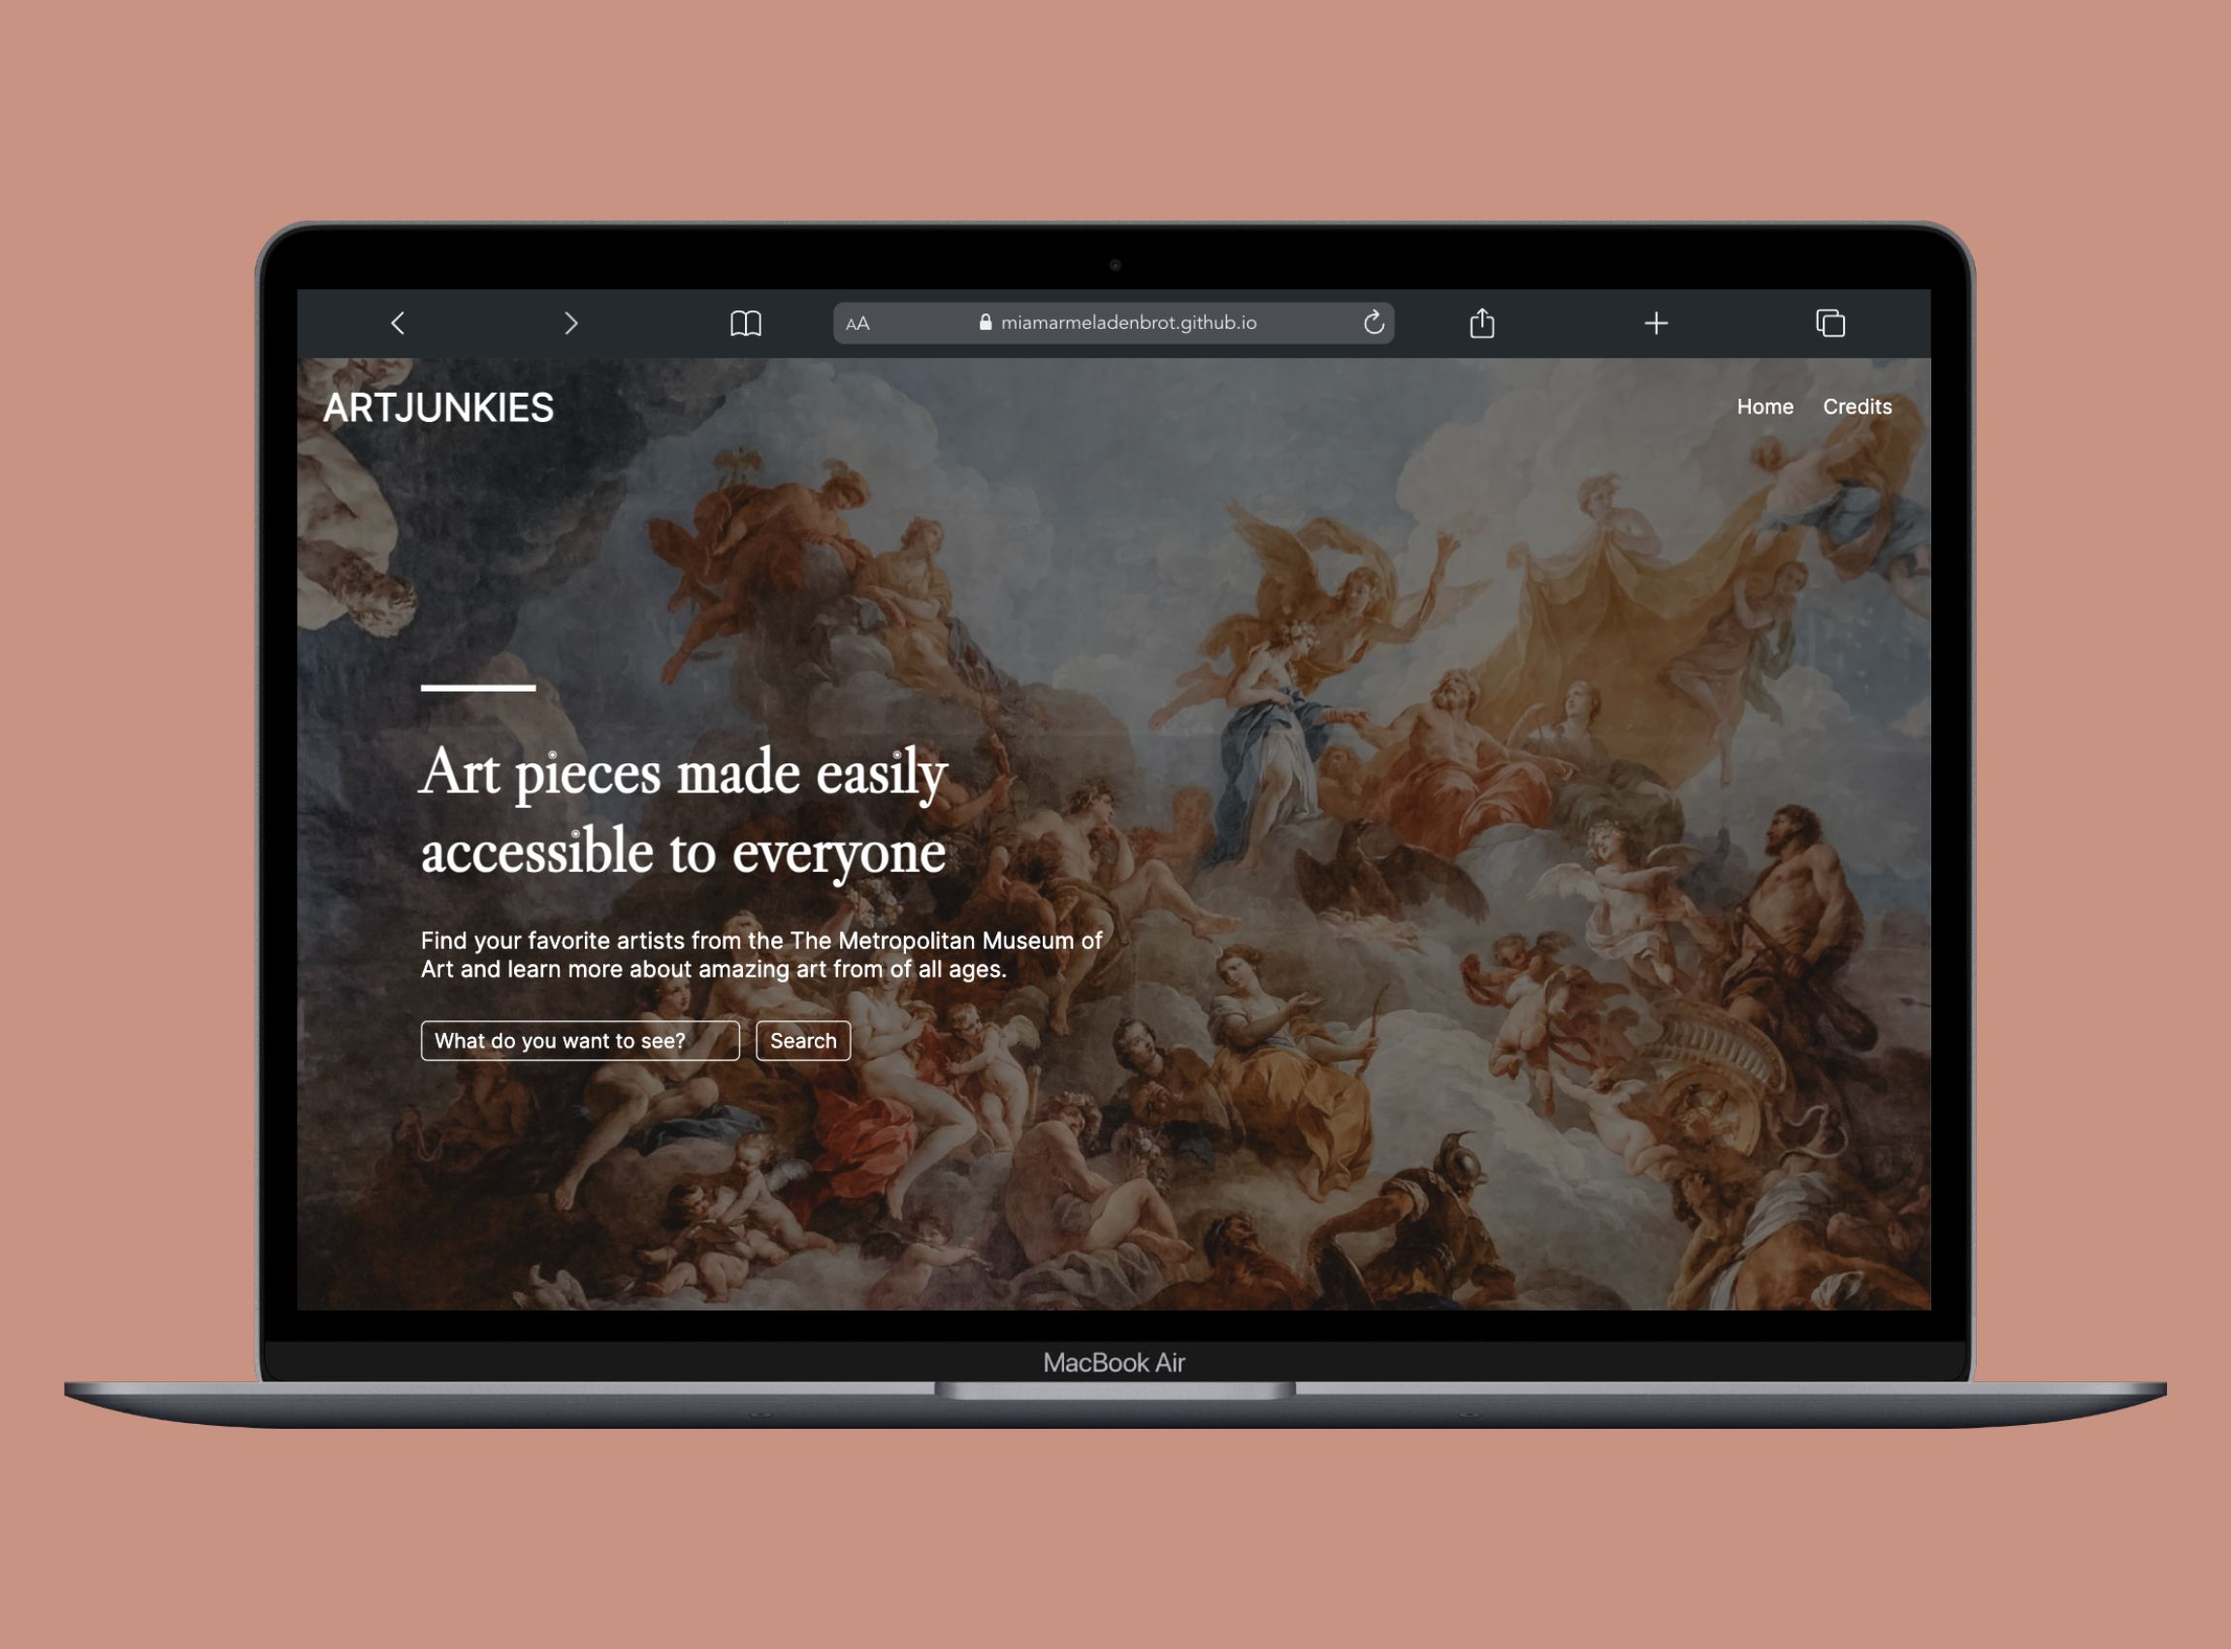
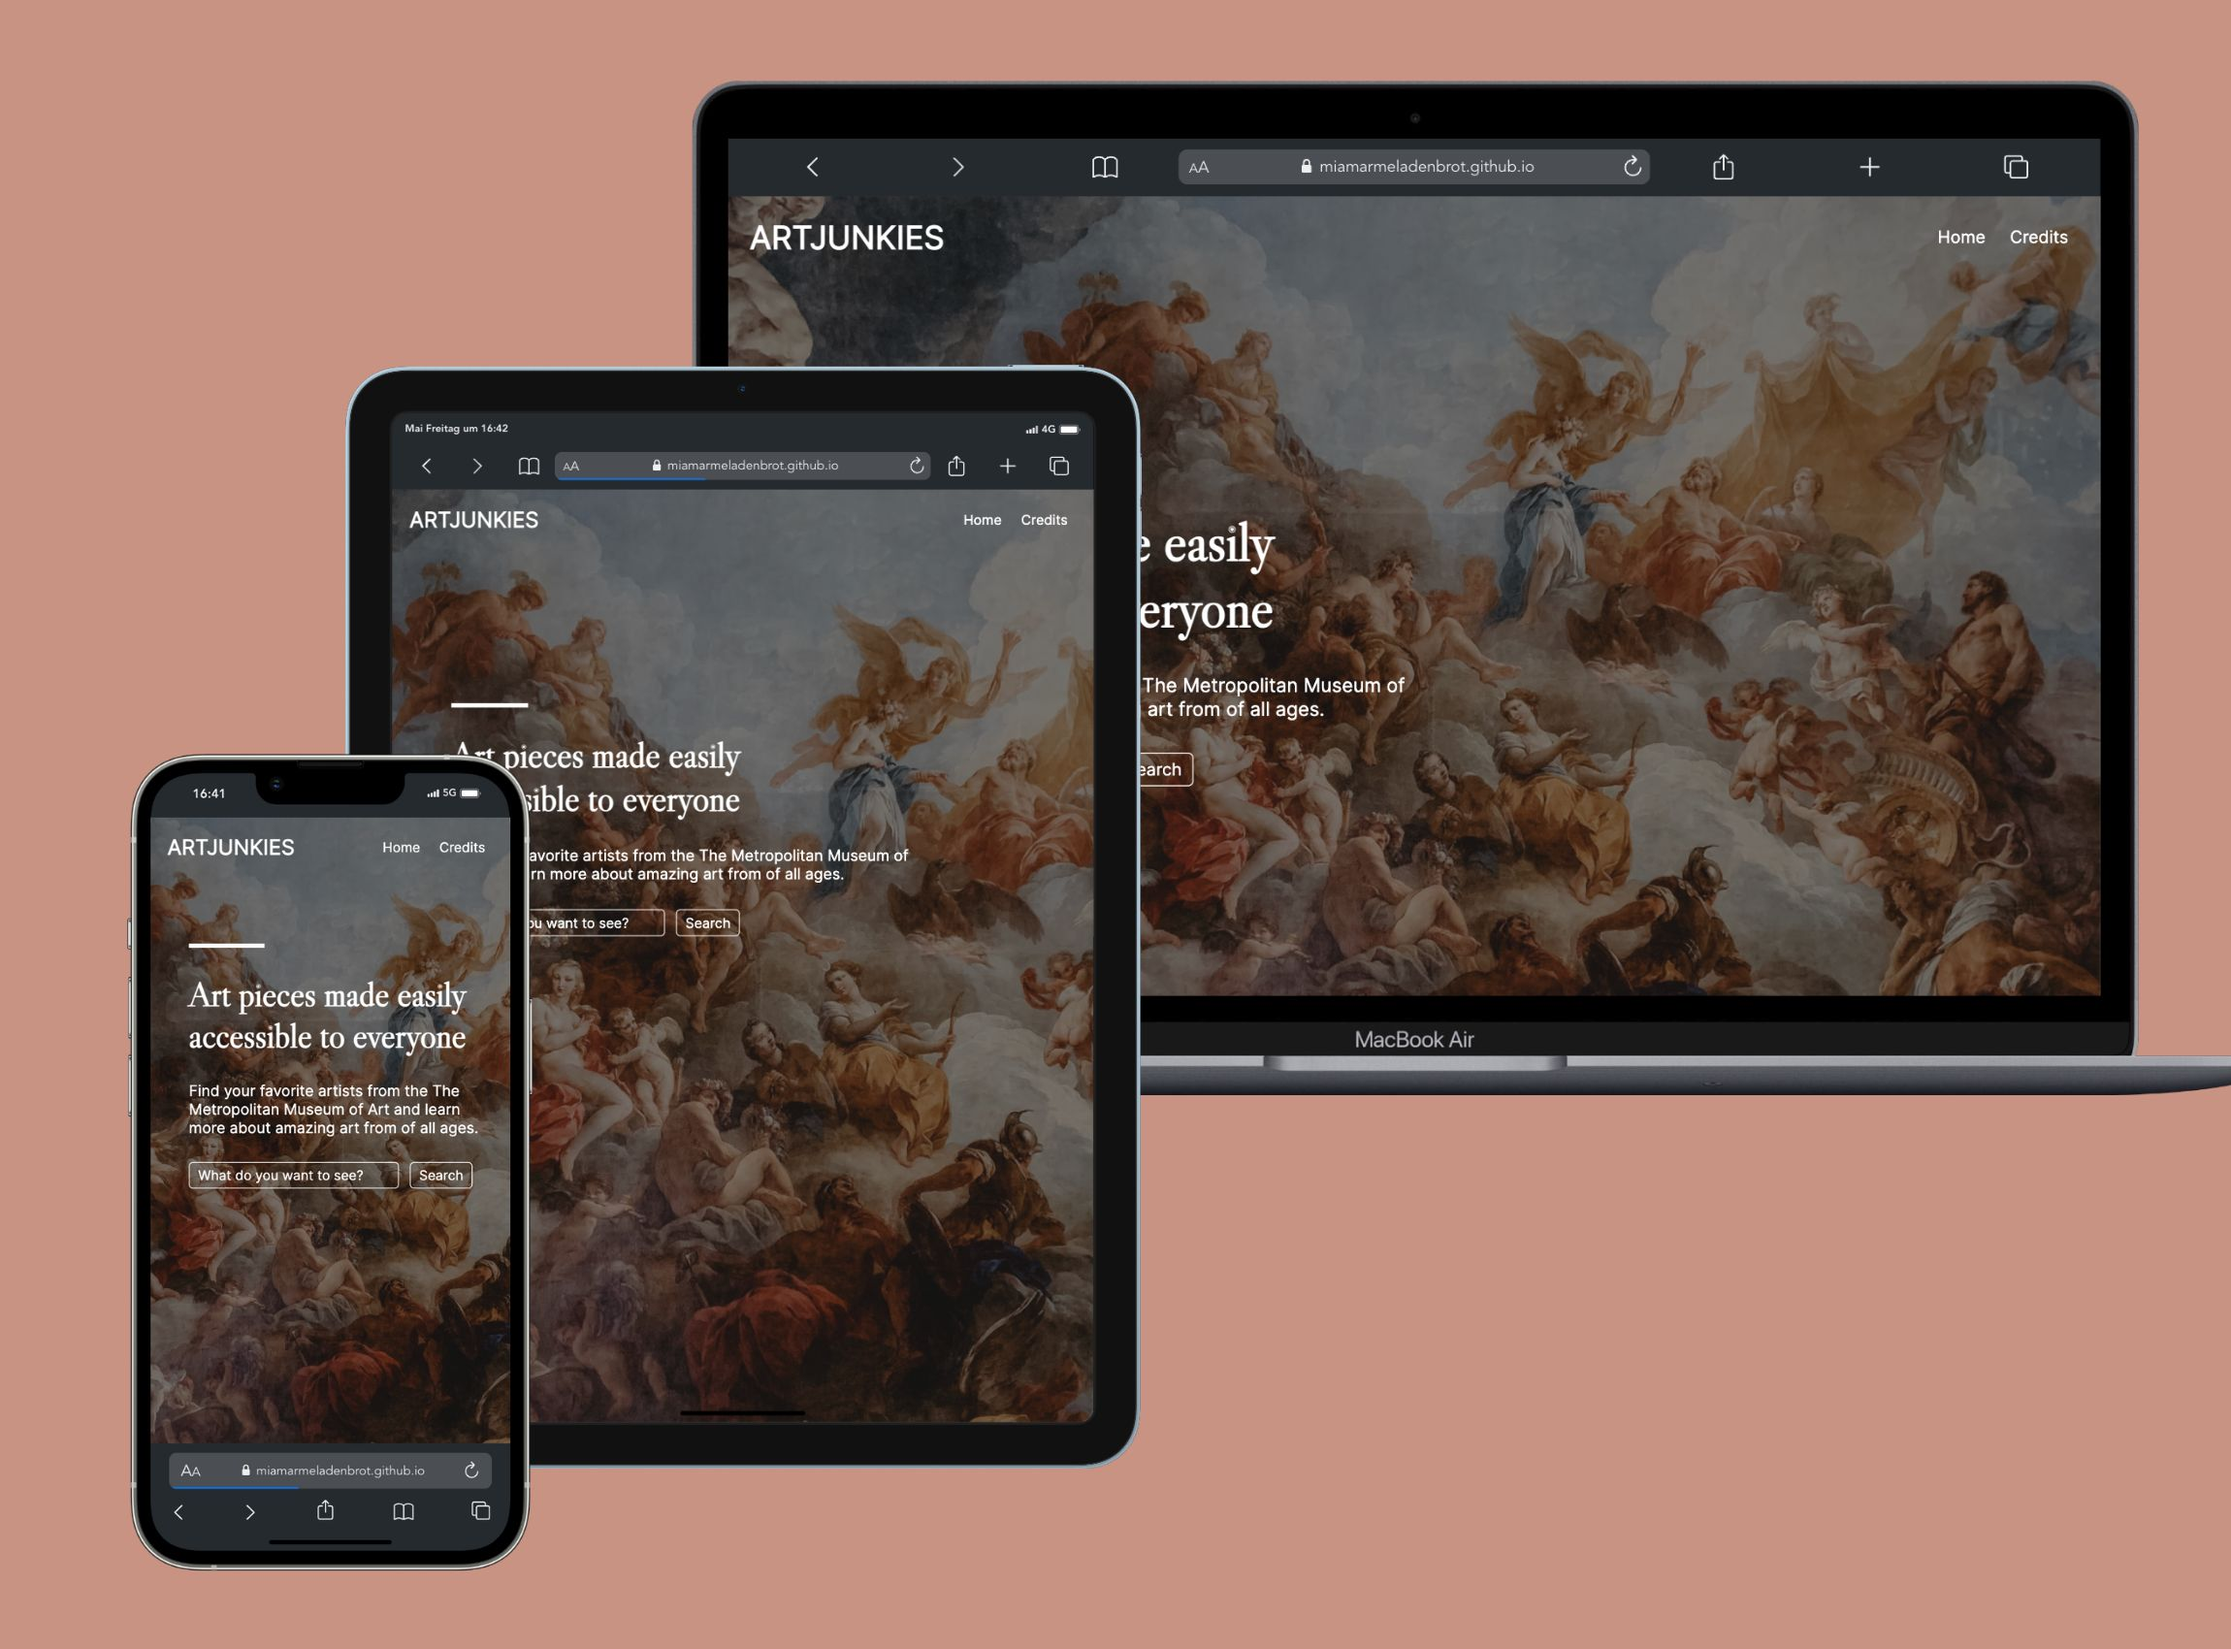
add img for artjunkies project

diff --git a/src/assets/data/projects.js b/src/assets/data/projects.js
@@ -562,7 +562,12 @@ const projects = [
       "Show different image depending on advice",
     ],
 
-    detailImages: ["/img/Projects/artjunkies/artjunkies-home.png"],
+    detailImages: [
+      "/img/Projects/artjunkies/artjunkies-d-home.png",
+      "/img/Projects/artjunkies/artjunkies-d-search.png",
+      "/img/Projects/artjunkies/artjunkies-t.jpg",
+      "/img/Projects/artjunkies/artjunkies-m.jpg",
+    ],
   },
   // 1 Schere, Stein, Papier
   {
